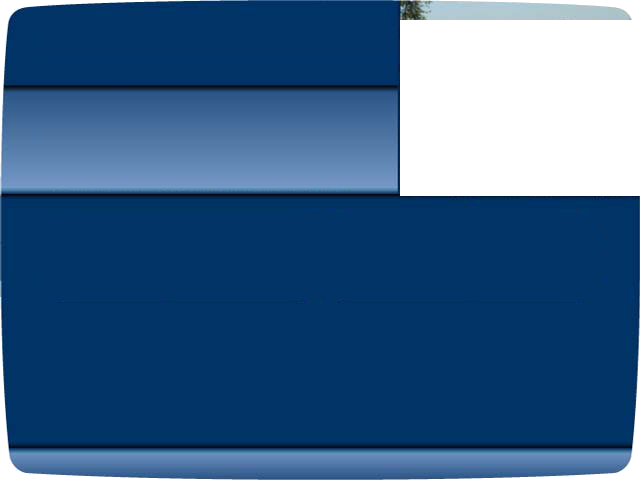
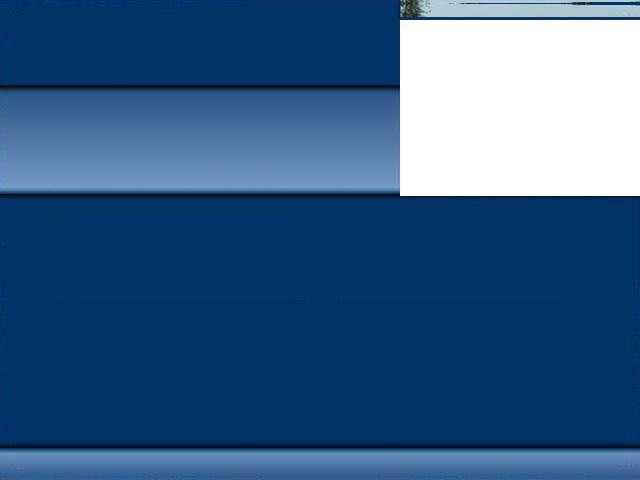
Clean edges on the frame skins; video channels hand over from the top
i-Grid's pages fill the screen to square corners: the manual's rounded,
scan-fringed page edge is eroded and the page reflected outward over it,
only the picture window stays a hole; the banner band runs edge to edge
and the dialog's corners are anti-aliased. Passage's frames lose the scan
fringe along their edges, and the panels the manual cut at the right edge
end inside the screen at x 632 with rounded corners and their rim (the
guide's grid and header stop there; the chosen-row band matches).

Video Channels: when a video ends or its slot runs out, the next plays
from its top however late or early the handover is, so a channel plays
like a playlist; tuning in still joins the video due at its offset.

diff --git a/cathode/videochannels.py b/cathode/videochannels.py
@@ -449,8 +449,12 @@ class Player:
         s = getattr(self.app, "schedules", {}).get(self.cid)
         return s if s and s.entries else None
 
-    def start(self):
-        """Play what's due now (resolving it first, off the thread)."""
+    def start(self, cont: bool = False):
+        """Play what's due now (resolving it first, off the thread). With
+        `cont` the last video just ended or hit its stop: the one after it
+        plays from its top, however late (a slow resolve, a stream that ran
+        long) or early (one that ran short) the handover is, so a channel
+        plays like a playlist; only tuning in joins a video at its offset."""
         from . import ytdl
         self.gen += 1
         gen = self.gen
@@ -459,9 +463,12 @@ class Player:
         if sched is None:
             if not getattr(app, "video_loading", False):
                 load(app)
-            app.after(2.0, lambda: gen == self.gen and self.start())
+            app.after(2.0, lambda: gen == self.gen and self.start(cont))
             return
-        cur = sched.at(datetime.now(timezone.utc))
+        now = datetime.now(timezone.utc)
+        cur = sched.at(self.cur["stop"] + timedelta(seconds=1)) if cont and self.cur else None
+        if cur is None or now >= cur["stop"]:      # nothing after it, or that one is over too: whatever is due
+            cur = sched.at(now)
         if cur is None:
             self.live.on_video("video_ended", reason="nothing to play")
             return
@@ -475,7 +482,7 @@ class Player:
                 print(f"[video] {e['id']} {e.get('title', '')!r} can't play ({ex.__class__.__name__}): skipped")
                 app.post(self._skip, gen, e["id"])
                 return
-            app.post(self._play, gen, cur, s)
+            app.post(self._play, gen, cur, s, cont)
         threading.Thread(target=work, daemon=True).start()
 
     def _drop(self, video_id):
@@ -490,15 +497,16 @@ class Player:
         if gen != self.gen:
             return
         self._drop(video_id)
-        self.start()
+        self.cur = None
+        self.start(cont=True)
 
-    def _play(self, gen, cur, s):
+    def _play(self, gen, cur, s, cont=False):
         if gen != self.gen:
             return
         e = cur["entry"]
         offset = max(0.0, (datetime.now(timezone.utc) - cur["start"]).total_seconds())
-        if offset < GRACE:
-            offset = 0.0        # due just now (resolving and opening took the seconds): the top, not a cut head
+        if cont or offset < GRACE:
+            offset = 0.0        # a handover, or due just now (resolving and opening took the seconds): the top, not a cut head
         self.cur = cur
         self.app.video.play(s["video"], headers=s.get("headers"), start=offset, audio=s.get("audio"))
         artist, title = parse_title(e["title"], e.get("uploader", ""))
@@ -514,7 +522,7 @@ class Player:
             self._timer = self.app.after(left - CARD_SECONDS, lambda: gen == self.gen and self._card_again())
         # The next is due at the stop whatever this one has left (a late start
         # ends late): its tail goes, so the lateness doesn't pile up video by video.
-        self._stop_timer = self.app.after(max(0.5, left), lambda: gen == self.gen and self.start())
+        self._stop_timer = self.app.after(max(0.5, left), lambda: gen == self.gen and self.start(cont=True))
         # the next video resolved ahead, so its start is only mpv's open
         sched = self.sched
         nxt = sched.at(cur["stop"] + timedelta(seconds=1)) if sched else None
@@ -537,7 +545,8 @@ class Player:
             if left > 5:
                 print(f"[video] {self.cur['entry']['id']} ended early ({reason}, {left:.0f} s left): dropped")
                 self._drop(self.cur["entry"]["id"])
-        self.start()
+                self.cur = None                 # the order closed up: whatever is due now, from its top
+        self.start(cont=True)
 
     def stop(self):
         self.gen += 1

diff --git a/cathode/skins/cable.py b/cathode/skins/cable.py
@@ -712,7 +712,7 @@ class CableSkin(BoxSkin):
                     cx = int(x + col * every / 2)
                     if cx + self.width(f, labels[i]) // 2 <= hdr.right:       # a label that would run off the edge isn't drawn
                         self.tx(c, labels[i], f, ink, cx, hy, align="center")
-                else:
+                elif int(x) + X(6) + self.width(f, labels[i]) <= hdr.right:   # nor one past the header's end
                     self.tx(c, labels[i], f, ink, int(x) + X(6), hy)
 
 
@@ -1549,7 +1549,7 @@ class Passage(CableSkin):
         elif sel:
             self.tx(c, "No information available.", f_desc, ink, X(65), Y(150))
         # The header: the day at the left, the half hours centred between the frame's grooves.
-        hdr = self.R(53, 223, 587, 26)
+        hdr = self.R(53, 223, 573, 26)                   # to the panel's rounded end at 632
         grid_x, grid_w = X(185), X(548)
         self._time_header(c, g, hdr, grid_x, grid_w, self.wb(Y(18)), b["navy"], None, X(67), space=True,
                           day_fmt="{a}.{m}/{d}", centre=True)
@@ -1580,7 +1580,9 @@ class Passage(CableSkin):
             elif "movie" in cat or "film" in cat:
                 pygame.draw.rect(cc, b["movie"], (r.x + X(2), r.y, r.w - X(2), r.h))
             pygame.draw.rect(cc, b["line"], (r.x, r.y, X(2), r.h))
+        c.set_clip(pygame.Rect(0, 0, X(628), H))         # the fourth column stops at the panel's end
         self._grid(c, g, grid_x, grid_w, top, pitch, rh, 0, 24, tile, cell, lambda on: b["sel_ink"] if on else b["white"])
+        c.set_clip(None)
         # The foot: the mark, then the frame's keys with Cathode's actions: A a day on, B the list, C details.
         name = g.category if g.category != "All" else "Theme"
         self._keybar(c, Y(403), [("A", "Next Day", lambda: g.handle("FF")),
@@ -2087,7 +2089,7 @@ class Passage(CableSkin):
         side = self.od_side(s)
         self._od_buttons(c, [lab for lab, _ in side], -1 if s.side is None else s.side, [fn for _, fn in side])
         fs = self.f(Y(17))
-        self.tx(c, f"{s.sel + 1} of {len(rows)}", fs, b["ink"], X(632), Y(458), align="right")
+        self.tx(c, f"{s.sel + 1} of {len(rows)}", fs, b["ink"], X(626), Y(458), align="right")
         if s.status:
             self.tx(c, self.fit(fs, s.status, X(300)), fs, b["ink"], X(50), Y(458))
 

diff --git a/tests/test_video.py b/tests/test_video.py
@@ -335,6 +335,45 @@ class TestTuning(unittest.TestCase):
         finally:
             ytdl.stream = ytdl_stream
 
+    def test_after_a_video_ends_the_next_plays_from_its_top_however_late(self):
+        import time
+        ytdl_stream = ytdl.stream
+        ytdl.stream = lambda vid: {"video": f"V/{vid}", "audio": f"A/{vid}", "headers": {}, "expires": time.time() + 3600}
+        real_dt = vc.datetime
+        try:
+            live = LiveTV(self.app)
+            live.tune(1)
+            for _ in range(50):
+                if self.calls:
+                    break
+                time.sleep(0.02)
+            fn, a, k = self.calls.pop(0)
+            fn(*a, **k)
+            p = live.vplayer
+            nxt = self.app.schedules[self.cid].at(p.cur["stop"] + timedelta(seconds=1))
+            late = nxt["start"] + timedelta(seconds=vc.GRACE + 40)   # the stream ran a minute past the handover
+
+            class Late(real_dt):
+                @classmethod
+                def now(cls, tz=None):
+                    return late if tz else late.replace(tzinfo=None)
+            vc.datetime = Late
+            live.phase = "watch"
+            live.on_video("video_ended", reason="eof")
+            for _ in range(50):
+                if self.calls:
+                    break
+                time.sleep(0.02)
+            fn, a, k = self.calls.pop(0)
+            fn(*a, **k)
+            url, audio, start = self.app.video.played[-1]
+            self.assertEqual(url, f"V/{nxt['entry']['id']}", "the one after it")
+            self.assertEqual(start, 0, "from its top, not a minute in")
+            live.tune(0)
+        finally:
+            ytdl.stream = ytdl_stream
+            vc.datetime = real_dt
+
 
 if __name__ == "__main__":
     unittest.main()

diff --git a/docs/cathode-4/skin-references.md b/docs/cathode-4/skin-references.md
@@ -358,6 +358,19 @@ frames' own pixels; Y1's 1280x720 canvas stretches the units 2 x 1.5).
   slots (103 apart) are used only when every box fits them, more than
   three keys run as words packed from x 620 with the face shrunk until
   they fit. The guide's keys: A Next Day (FF), B the list (THEMES), C Info.
+- **Edges** (2026-10-29, later still): i-Grid's pages are opaque to the
+  screen's corners: the page's old rounded edge is eroded 3 px and its
+  colours carried outward (a ring a pass, each pixel the mean of its
+  filled neighbours), only the window x 400-640 y 20-196 stays a hole;
+  the banner band likewise from its top row down; the dialog keeps its
+  10 px corners, anti-aliased at 4x. Passage's frames: the outer 3 px
+  (5 at the right) of every edge are copied from the pixel inward, and
+  the panels the manual cut at x 640 end at 632 with 10 px rounded
+  corners and a 2 px rim in the panel's own rim colour (guide y 223-401,
+  page y 194-412, od y 275-392, info y 223-406, search y 223-404; the page
+  beyond them is the row below the panel shifted by the page's shade at
+  x 24); od_sel.png is 582 wide with a 6 px rounded end. The guide clips
+  its grid at x 628 and its header at 626.
 - **Passage**: Passport Echo on Scientific Atlanta boxes, from the Aptiv
   Passport Echo viewer's manual (hellotds.com hosts the PDF; 640x480
   frames). Fourth pass (2026-10-29): the guide and the banner are drawn

diff --git a/CHANGELOG.md b/CHANGELOG.md
@@ -20,6 +20,20 @@
   (A Next Day, B the list, C Info), the System Information labels are dark
   on the light panel, the chosen row's arrows show only on a row with a
   value to step through.
+- **Clean edges on the frame skins.** i-Grid's pages fill the screen to
+  square corners (the manual's rounded, scan-fringed page edge is gone;
+  the picture window is the only hole), its banner band runs edge to
+  edge and its dialog's corners are smooth. Passage's frames lose the
+  scan's fringe along their four edges, and the panels the manual cut off
+  at the right edge (the guide's grid, the pages' detail area, On Demand's
+  detail panel and chosen band, the information and search panels) end
+  inside the screen with rounded corners and their rim; the guide's grid
+  and time header stop at that end.
+- **Video Channels play like a playlist.** When a video ends (or its slot
+  runs out) the next starts from its top, however late the handover is
+  (a slow resolve, a stream that ran long) or early (one that ran short);
+  it no longer joins the next video partway in. Tuning in still joins the
+  video due at its offset.
 
 ## 4.39
 
